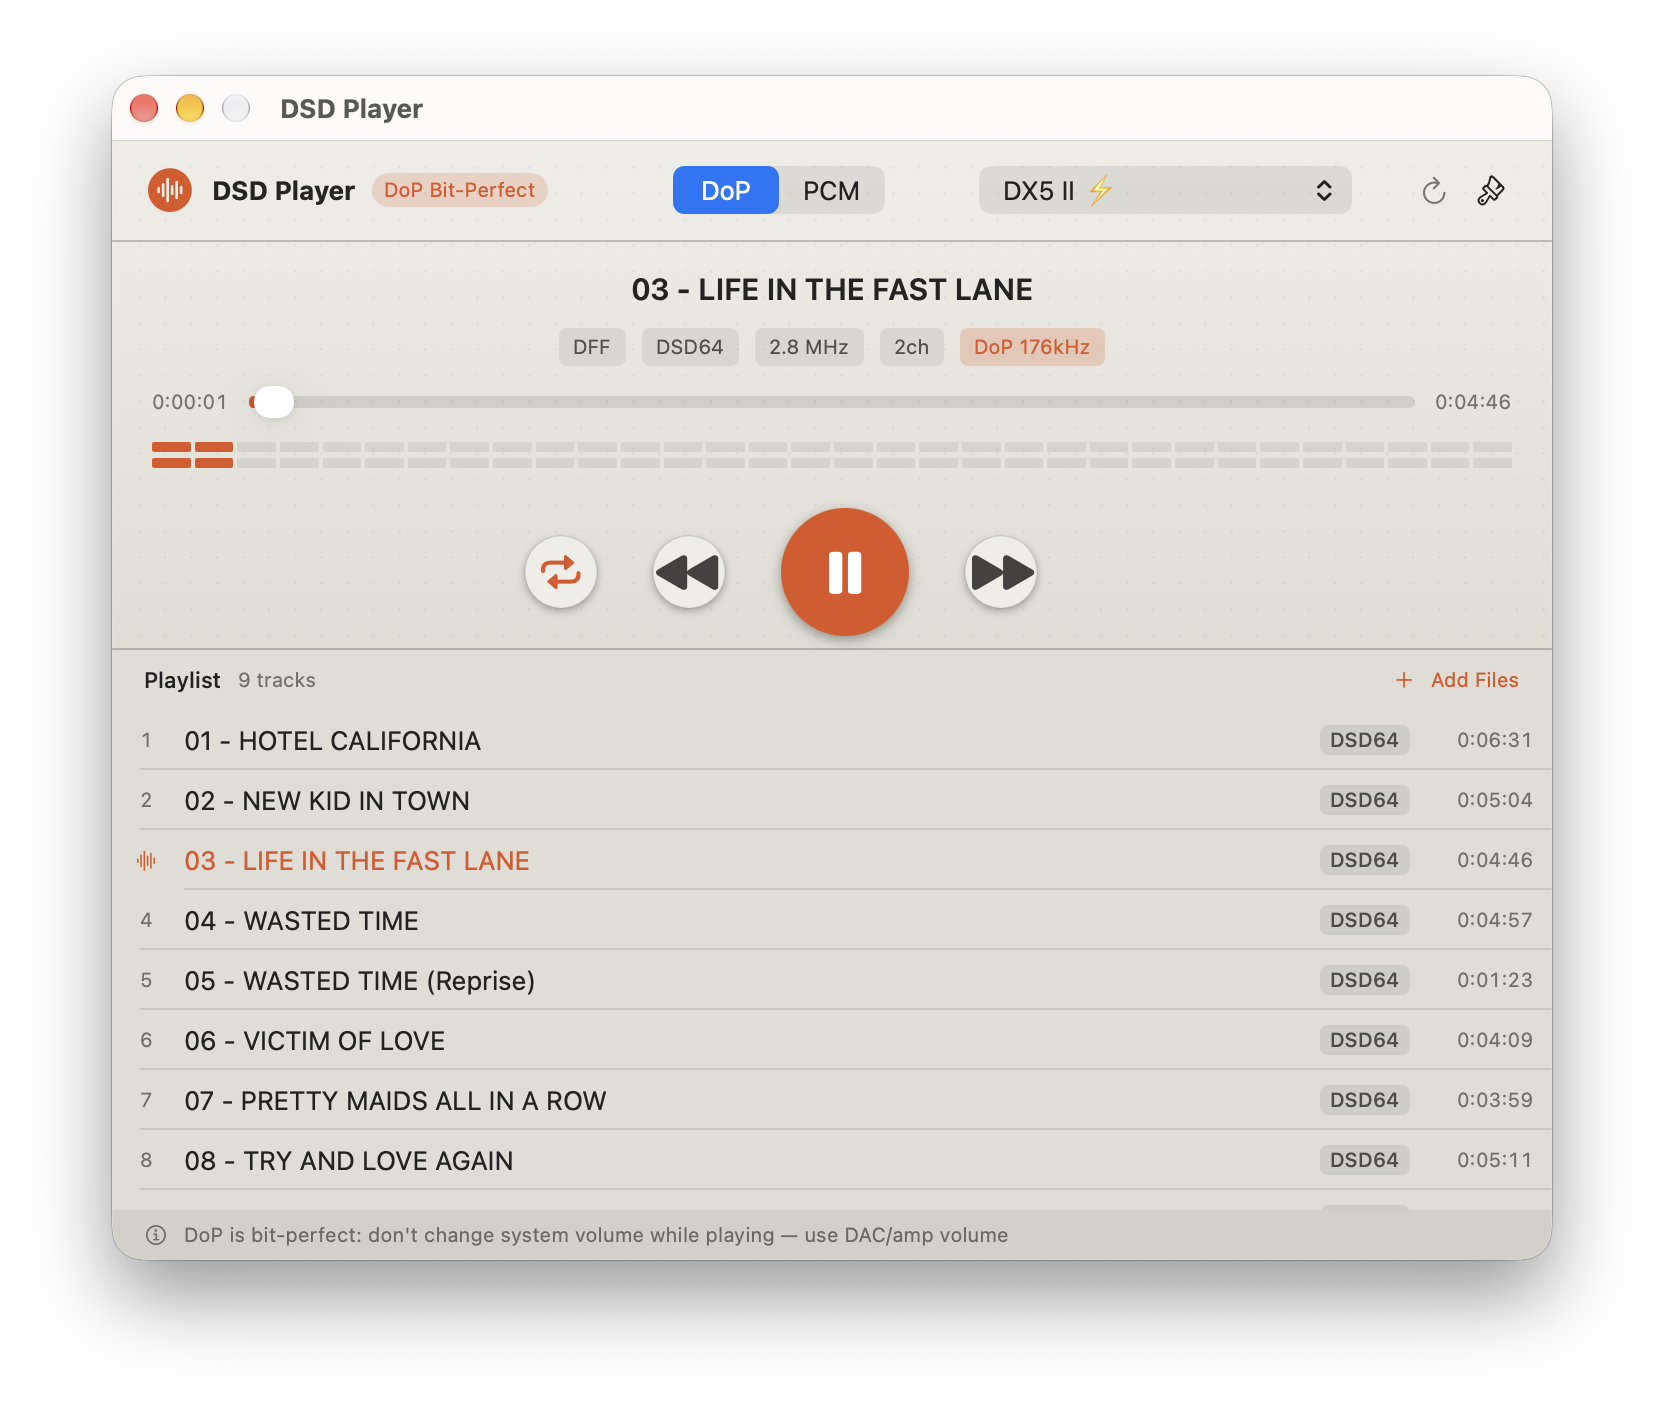
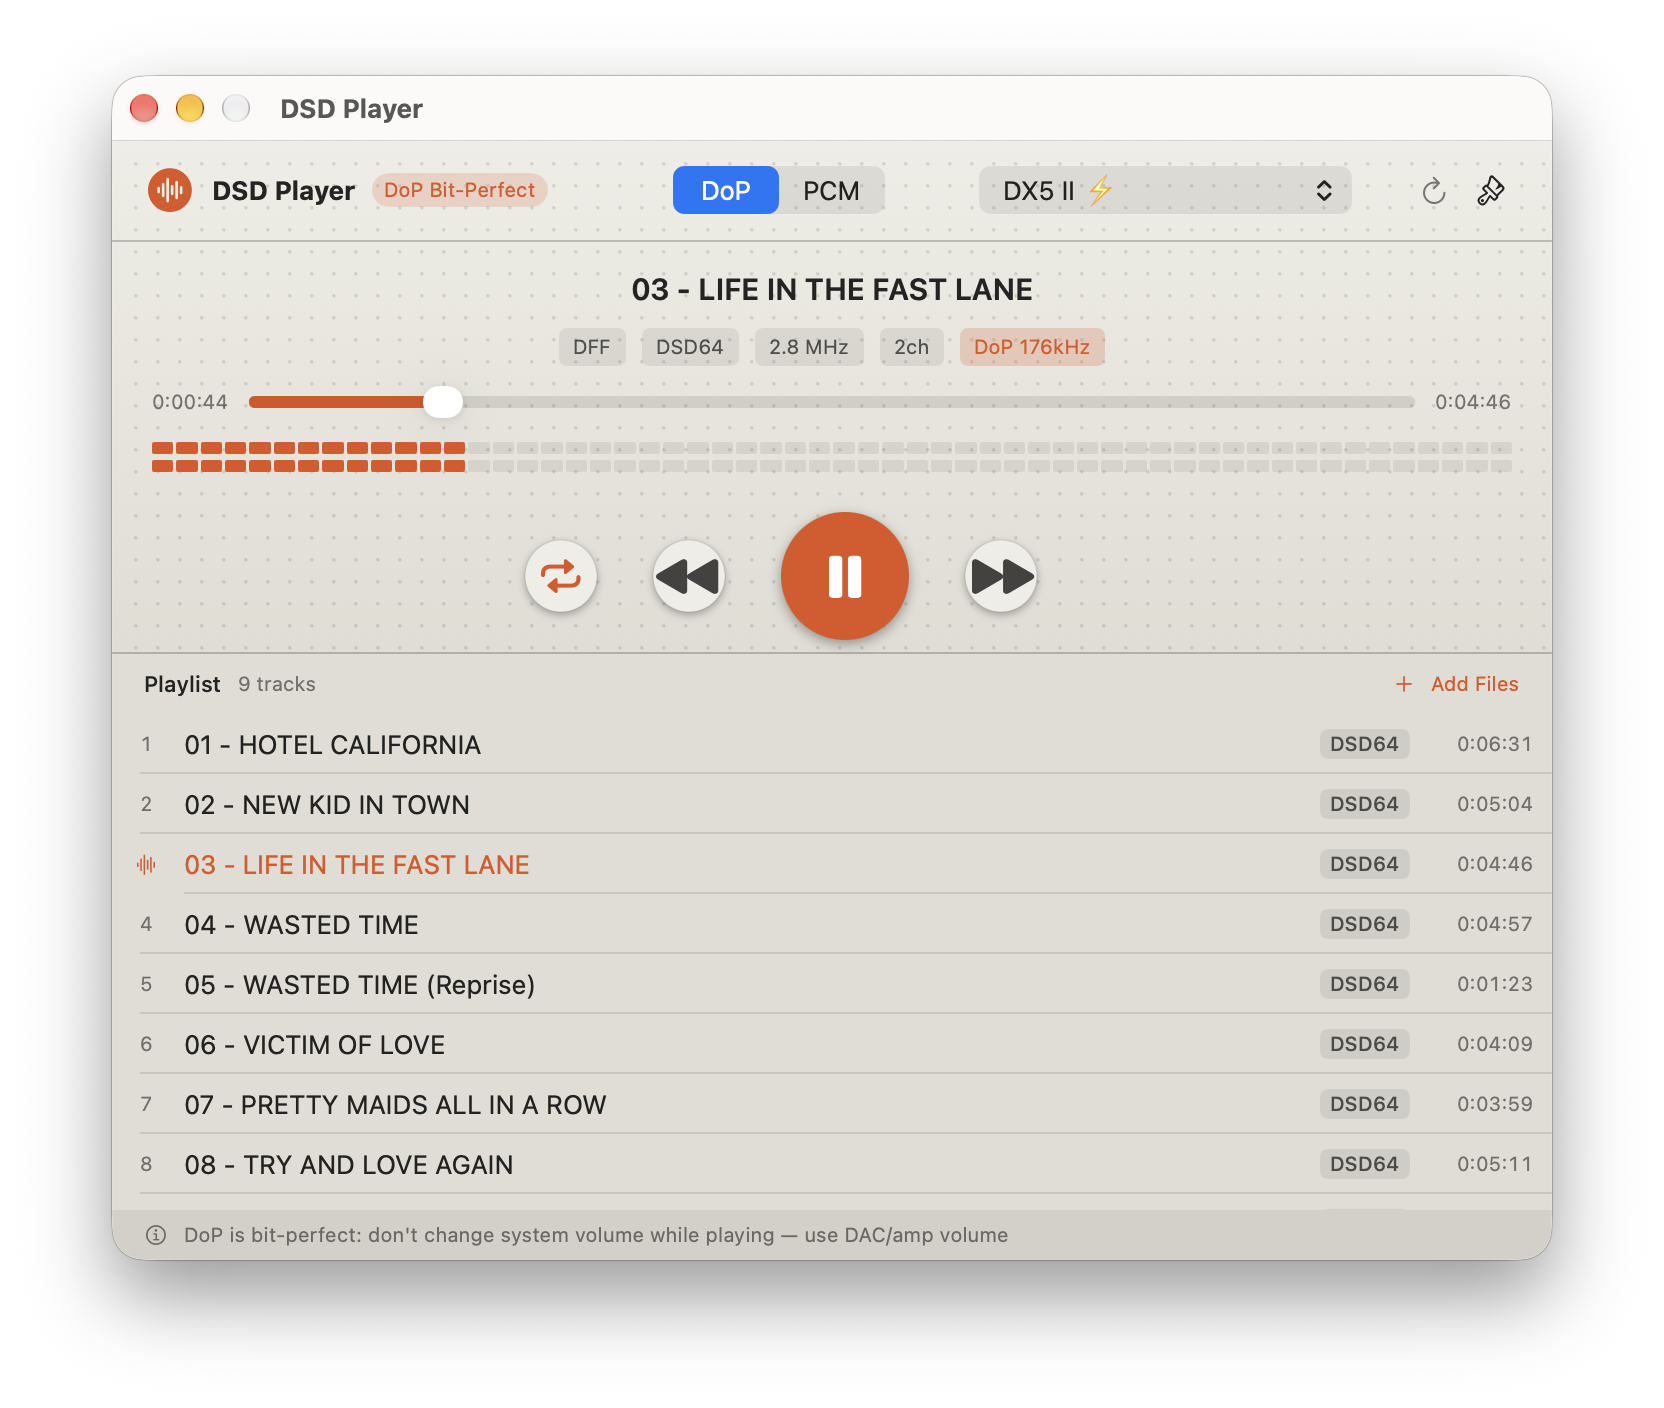
VU 表流畅度与点阵可见性优化
- VU 表独立 30Hz 刷新定时器（原与进度条共用 4Hz）
- 段数 32→56，快攻慢放系数适配高刷新率
- 电平增益 ×2.2（DoP）/×2.0（PCM），音乐段落表针更活跃
- 点阵纹理加深加粗（1.8pt/11pt 间距/0.11 不透明度），清晰可见

diff --git a/Sources/DSDPlayer/DSDPlayerApp.swift b/Sources/DSDPlayer/DSDPlayerApp.swift
@@ -78,6 +78,7 @@ final class PlayerModel: ObservableObject {
 
     let engine = PlaybackEngine()
     private var timer: Timer?
+    private var meterTimer: Timer?
     private var queuedNextIndex: Int?   // 无缝预排的下一首
 
     // MARK: 持久化
@@ -150,25 +151,30 @@ final class PlayerModel: ObservableObject {
         timer = Timer.scheduledTimer(withTimeInterval: 0.25, repeats: true) { [weak self] _ in
             Task { @MainActor in self?.tick() }
         }
+        // VU 电平表独立 30Hz 刷新，保证动画流畅
+        meterTimer = Timer.scheduledTimer(withTimeInterval: 1.0 / 30, repeats: true) { [weak self] _ in
+            Task { @MainActor in self?.meterTick() }
+        }
         setupRemoteCommands()
         restore()
     }
 
     private func tick() {
-        guard state == .playing || state == .paused else {
-            meterL *= 0.8; meterR *= 0.8   // 停止时电平衰减归零
-            return
-        }
+        guard state == .playing || state == .paused else { return }
         position = engine.positionSeconds
         updateNowPlaying()
-        // VU 表：读取引擎电平，快攻慢放
-        let l = Double(engine.levelL.load(ordering: .relaxed)) / 1000
-        let r = Double(engine.levelR.load(ordering: .relaxed)) / 1000
+    }
+
+    private func meterTick() {
         if state == .playing {
-            meterL = max(l, meterL * 0.7)
-            meterR = max(r, meterR * 0.7)
+            let l = Double(engine.levelL.load(ordering: .relaxed)) / 1000
+            let r = Double(engine.levelR.load(ordering: .relaxed)) / 1000
+            // 快攻慢放（模拟表针动态）
+            meterL = max(l, meterL * 0.82)
+            meterR = max(r, meterR * 0.82)
         } else {
-            meterL *= 0.8; meterR *= 0.8
+            meterL *= 0.9
+            meterR *= 0.9
         }
     }
 
@@ -563,13 +569,13 @@ struct ContentView: View {
     /// 博朗风格细点阵纹理
     private var dotGridTexture: some View {
         Canvas { ctx, size in
-            let step: CGFloat = 13
+            let step: CGFloat = 11
             var y: CGFloat = step
             while y < size.height {
                 var x: CGFloat = step
                 while x < size.width {
-                    ctx.fill(Path(ellipseIn: CGRect(x: x, y: y, width: 1.3, height: 1.3)),
-                             with: .color(.black.opacity(0.045)))
+                    ctx.fill(Path(ellipseIn: CGRect(x: x, y: y, width: 1.8, height: 1.8)),
+                             with: .color(.black.opacity(0.11)))
                     x += step
                 }
                 y += step
@@ -881,7 +887,7 @@ struct VUMeter: View {
     let left: Double    // 0...1
     let right: Double
     let theme: Theme
-    private let segments = 32
+    private let segments = 56
 
     var body: some View {
         VStack(spacing: 3) {
@@ -891,13 +897,13 @@ struct VUMeter: View {
     }
 
     private func row(_ level: Double) -> some View {
-        HStack(spacing: 2) {
+        HStack(spacing: 1.5) {
             ForEach(0..<segments, id: \.self) { i in
                 let pos = Double(i) / Double(segments)
                 RoundedRectangle(cornerRadius: 1)
                     .fill(pos < level ? segmentColor(pos) : theme.badgeBg)
                     .frame(maxWidth: .infinity)
-                    .frame(height: 5)
+                    .frame(height: 6)
             }
         }
     }

diff --git a/Sources/DSDPlayer/DoP.swift b/Sources/DSDPlayer/DoP.swift
@@ -57,12 +57,12 @@ func estimateLevelsDoP(_ ptr: UnsafePointer<Int32>, count: Int, channels: Int) -
     guard framesPerCh > 0 else { return (0, 0) }
     func level(_ sum: Int) -> Double {
         let density = Double(sum) / Double(framesPerCh * 16)
-        return min(1.0, abs(density - 0.5) * 2 * 1.414)
+        return min(1.0, abs(density - 0.5) * 2 * 2.2)  // RMS→峰值 + 表头增益
     }
     return (level(sum0), channels == 2 ? level(sum1) : level(sum0))
 }
 
-/// 从 Int32 PCM 采样估计左右声道 RMS 电平（0...1，√2 补偿）。
+/// 从 Int32 PCM 采样估计左右声道 RMS 电平（0...1，增益补偿）。
 func estimateLevelsPCM(_ ptr: UnsafePointer<Int32>, count: Int, channels: Int) -> (Double, Double) {
     var sumSq0 = 0.0, sumSq1 = 0.0
     for i in 0..<count {
@@ -72,7 +72,7 @@ func estimateLevelsPCM(_ ptr: UnsafePointer<Int32>, count: Int, channels: Int) -
     let framesPerCh = channels == 2 ? count / 2 : count
     guard framesPerCh > 0 else { return (0, 0) }
     func level(_ sumSq: Double) -> Double {
-        min(1.0, (sumSq / Double(framesPerCh)).squareRoot() * 1.414)
+        min(1.0, (sumSq / Double(framesPerCh)).squareRoot() * 2.0)
     }
     return (level(sumSq0), channels == 2 ? level(sumSq1) : level(sumSq0))
 }

diff --git a/Tests/DSDPlayerTests/DSDPlayerTests.swift b/Tests/DSDPlayerTests/DSDPlayerTests.swift
@@ -216,11 +216,11 @@ final class DSDPlayerTests: XCTestCase {
         }
         XCTAssertEqual(zl, 0)
 
-        let full = [Int32](repeating: Int32.max / 2, count: 512)  // RMS 0.5 → 0.707
+        let full = [Int32](repeating: Int32.max / 2, count: 512)  // RMS 0.5 × 增益 2.0 → 满格
         let (fl, _) = full.withUnsafeBufferPointer {
             estimateLevelsPCM($0.baseAddress!, count: 512, channels: 2)
         }
-        XCTAssertEqual(fl, 0.707, accuracy: 0.02)
+        XCTAssertEqual(fl, 1.0, accuracy: 0.01)
     }
 
     // MARK: - 皮肤与持久化
